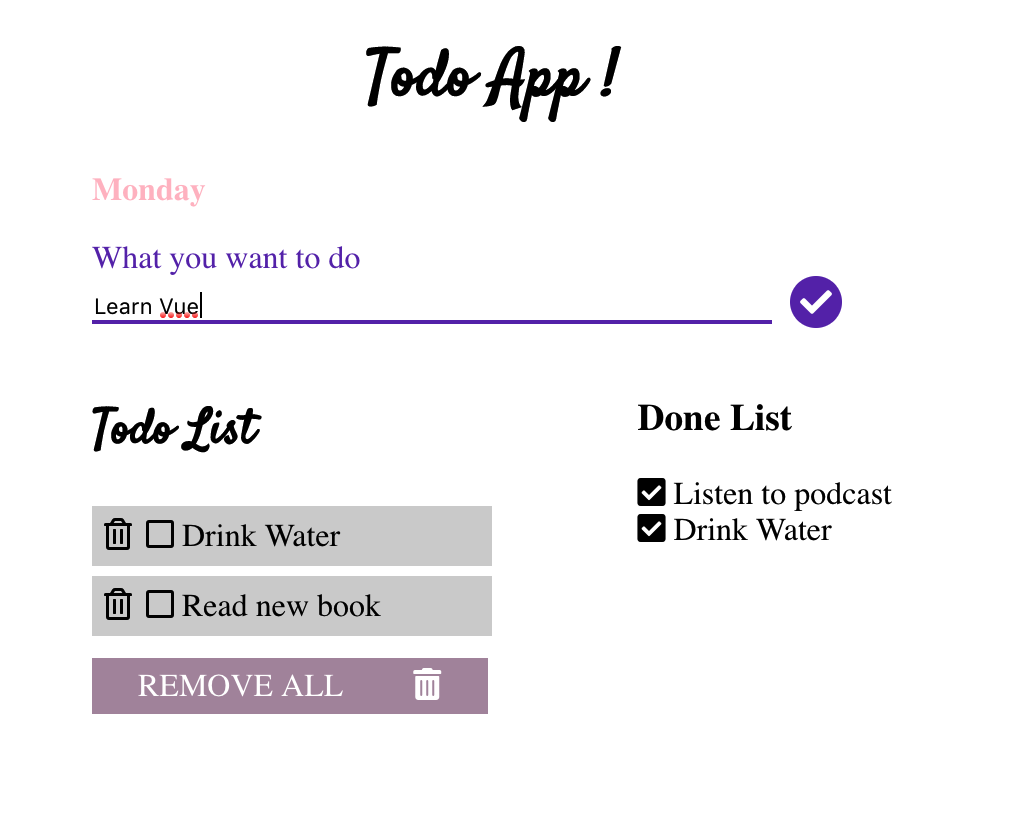
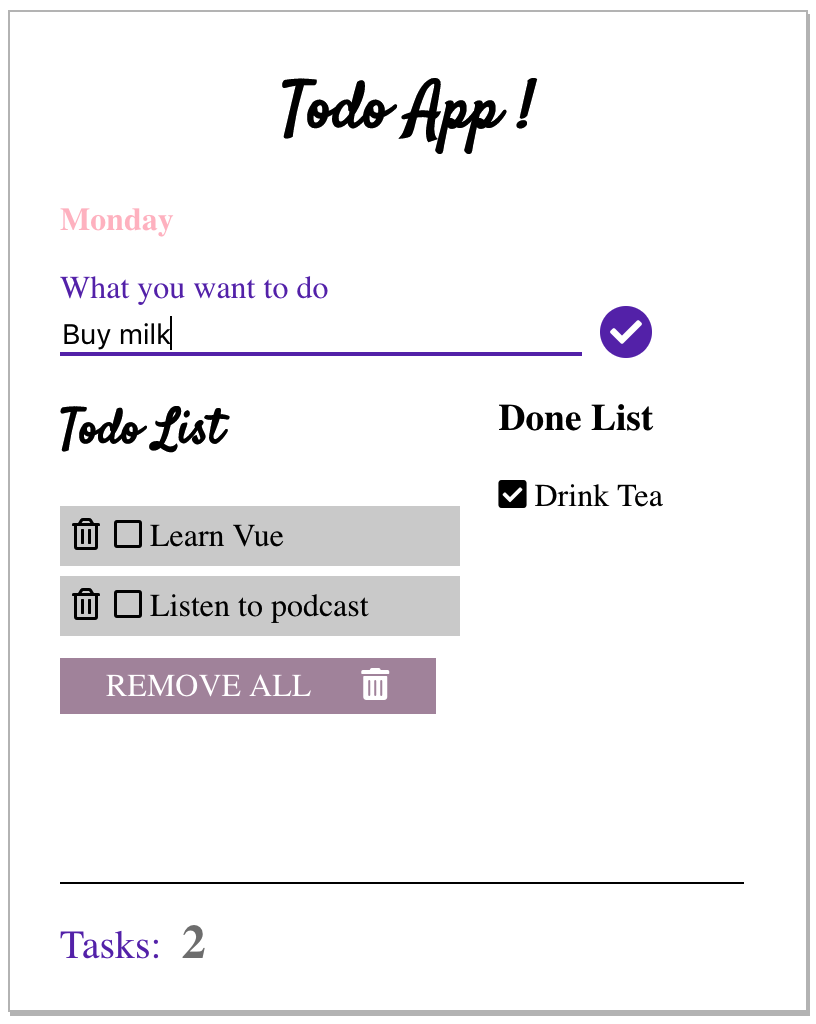
show how many tasks there are in list

diff --git a/index.html b/index.html
@@ -12,22 +12,22 @@
 			<h1 style="text-align: center;" class="title"> {{ title }} </h1>
 			<p style="color: pink; font-weight: bold;">{{getDay()}}</p>
 			<label for="title">What you want to do</label></br>
-			<input type="text" @change='readTodo' placeholder="Enter todo">
+			<input type="text" @change='readTodo' placeholder="Enter todo...">
 			<i @click='addTodo' class="fas fa-check fa-check-cir"></i>	
 		</div>
 	
 		<div class="todoList">
 			<h2 class="title">Todo List</h2> 
 			<ol>
-				<li v-for='todo in todos' class="todos">
-					<i @click="todos.splice(todo,1)" class="far fa-trash-alt" style="margin-right: 3px;"> </i>
-					<i @click='dones.push(todo) && todos.splice(todo,1)' class="far fa-square">
+				<li v-for='(todo, index) in todos' class="todos">
+					<i @click="todos.splice(index, 1)" class="far fa-trash-alt" style="margin-right: 3px;"> </i>
+					<i @click='dones.push(todo) && todos.splice(index,1)' class="far fa-square">
 						{{todo}}
 					</i>	
 				</li>
 			</ol>
-			<a @click= "deleteTodos" href="#">REMOVE ALL<i class="fa fa-trash-alt" style="margin-left: 35px;"></i>
-			</a>
+			<a @click= "deleteTodos" href="#">REMOVE ALL<i class="fa fa-trash-alt" style="margin-left: 25px;"></i>
+			</a>	
 		</div>
 
 		<div class="doneList">
@@ -39,6 +39,8 @@
 				</li>
 			</ol>
 		</div>
+		<p class="totalTasks"> <span style="color:#673AB7">Tasks:</span><strong style="color: grey; font-size: 24px; padding-left: 10px;">{{totalTodos}}</strong>
+		</p>
 	</div>
 	<script src="index.js"></script>
 </body>

diff --git a/index.css b/index.css
@@ -4,15 +4,20 @@
 }
 #app{
 	position: absolute;
-	 margin: auto;
-	 top: 0;
-	 right: 0;
-	 bottom: 0;
-	 left: 0;
-	 width: 400px;
+    margin: auto;
+    top: 0;
+    right: 0;
+    bottom: 0;
+    left: 0;
+    width: 400px;
+    border: 1px solid silver;
+    box-shadow: 1px 2px silver;
+    padding: 5px 25px 25px 25px;
+    height: 75%;
+    overflow: auto;
 }
 .intro {
-	margin: 15px 0;
+	margin: auto;
 
 }
 .title {
@@ -33,6 +38,7 @@
 }
 .doneList {
 	float: right;
+	width: 37%;
 }
 ol {
 	padding: 0;
@@ -42,7 +48,8 @@ input {
     outline: 0;
     border-bottom: 2px solid #673AB7;
     margin-top: 1%;
-    width: 85%;
+    width:75%;
+    font-size: 14px;
 }
 label {
 	color: #673AB7;
@@ -60,4 +67,12 @@ a {
 	color: white;
 	padding: 5px 23px;
 	text-decoration: none;
-}	
+}
+.totalTasks{
+	font-size: 20px;
+	position: absolute;
+	bottom: 0px;
+    border-top: 1px solid;
+    width: 86%;
+    padding-top: 15px;
+}

diff --git a/index.js b/index.js
@@ -41,6 +41,11 @@ var app = new Vue({
 				return dayName;
 		}
 	},
+	computed: {
+		totalTodos() {
+			return this.todos.length;
+		}
+	},
 	methods: {
 		readTodo: function(e) {
 			var todo = e.target.value;
@@ -52,6 +57,6 @@ var app = new Vue({
 		},
 		addTodo() {
 			return;
-		}
+		},
 	}
 });

diff --git a/README.md b/README.md
@@ -8,6 +8,7 @@ The app let the user:
 - Delete a todo
 - Remove all todos
 - Display done tasks below done list section
+- Display total tasks to do
 
 <img src="https://raw.githubusercontent.com/smartLisethe/not-fancy-vue-todo-app/master/images/todo-app.png">
 
